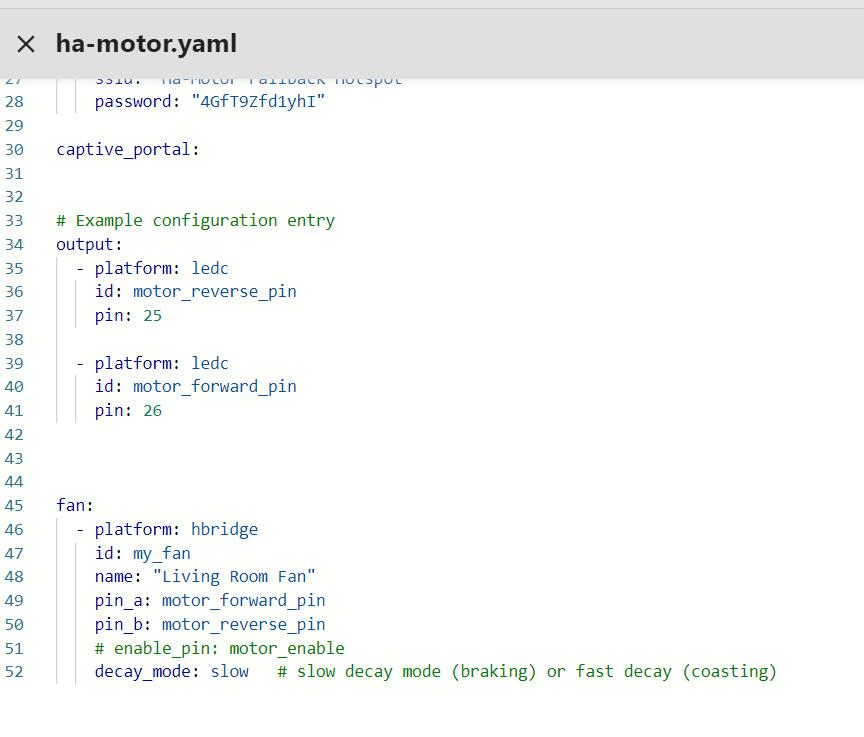
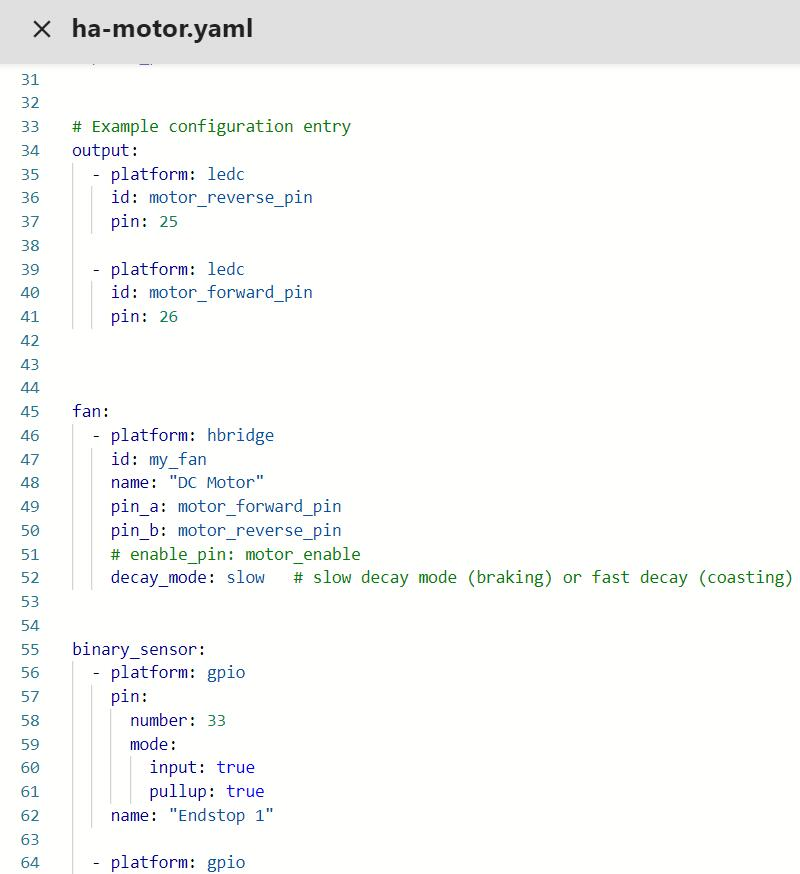
V1.1 Add endstop

Changed region(s): [[0.0, 0.0, 1.0, 0.9986], [0.125, 0.9674, 0.3125, 0.9986]]

diff --git a/readme.md b/readme.md
@@ -2,11 +2,11 @@
 
 ```c++
 /*
-Version:        V1.0
+Version:        V1.1
 Author:            Vincent
 Create Date:    2023/9/13
 Note:
-
+    2023/10/23  V1.1: Add Endstop Usage
 */
 ```
 
@@ -19,7 +19,9 @@ Note:
 [Makerfabs Wiki](https://wiki.makerfabs.com/)
 
 ## Intruduce
+
 Product Link:
+
 Wiki Link :
 
 ## Features
@@ -63,7 +65,7 @@ Equipment Setup
 
 8. Copy the code ha-motor.yaml provided by Makerfabs to the end of the file.
 
-![](md_pic/6.jpg)
+![](md_pic/5.jpg)
 
 9. Select SAVE, and select Install.
 10. Select Manual Download, select Modern format, the console page will be displayed, please wait patiently for compilation.
@@ -125,3 +127,17 @@ Normally, HA recognizes this automatically, but if the home page has been manual
 The reference interface is as follows:
 
 ![](md_pic/21.jpg)
+
+
+# HA Automation
+
+Two new Endstop pads are added to connect the external Endstop.
+
+![](md_pic/23.jpg)
+
+For example, if you want Endstop 1 to be triggered, turn off the motor, you can see the following Settings.
+On the configuration page, select Automation.
+Select Create Automation and set trigger conditions and motors.
+
+![](md_pic/22.jpg)
+
